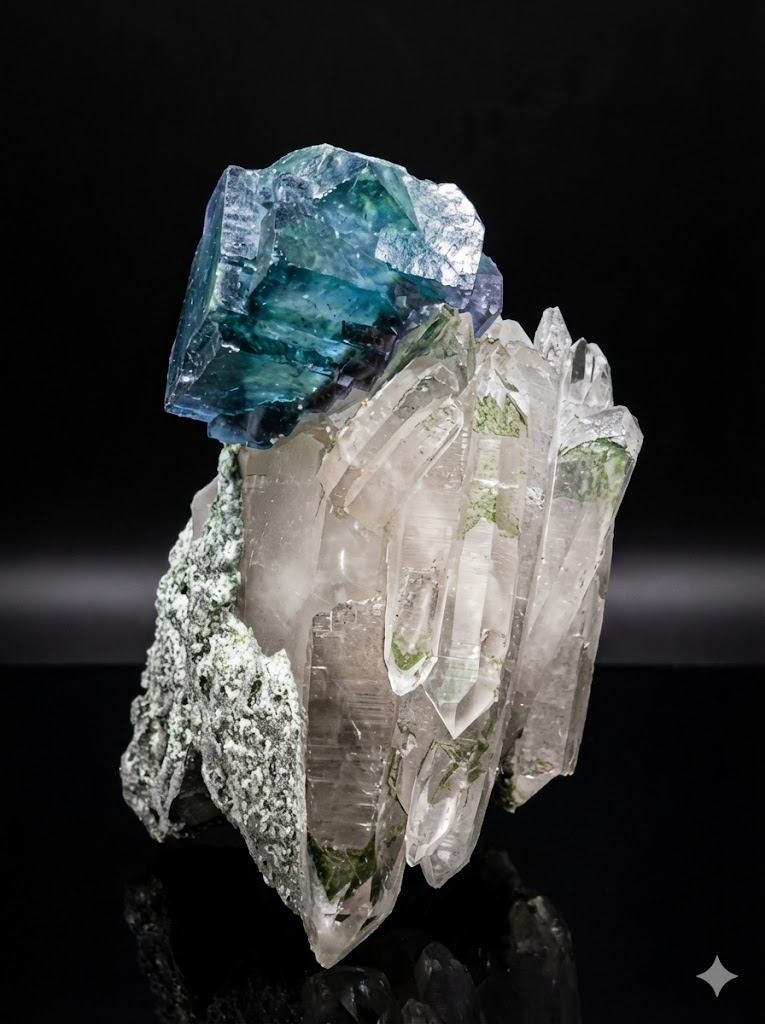
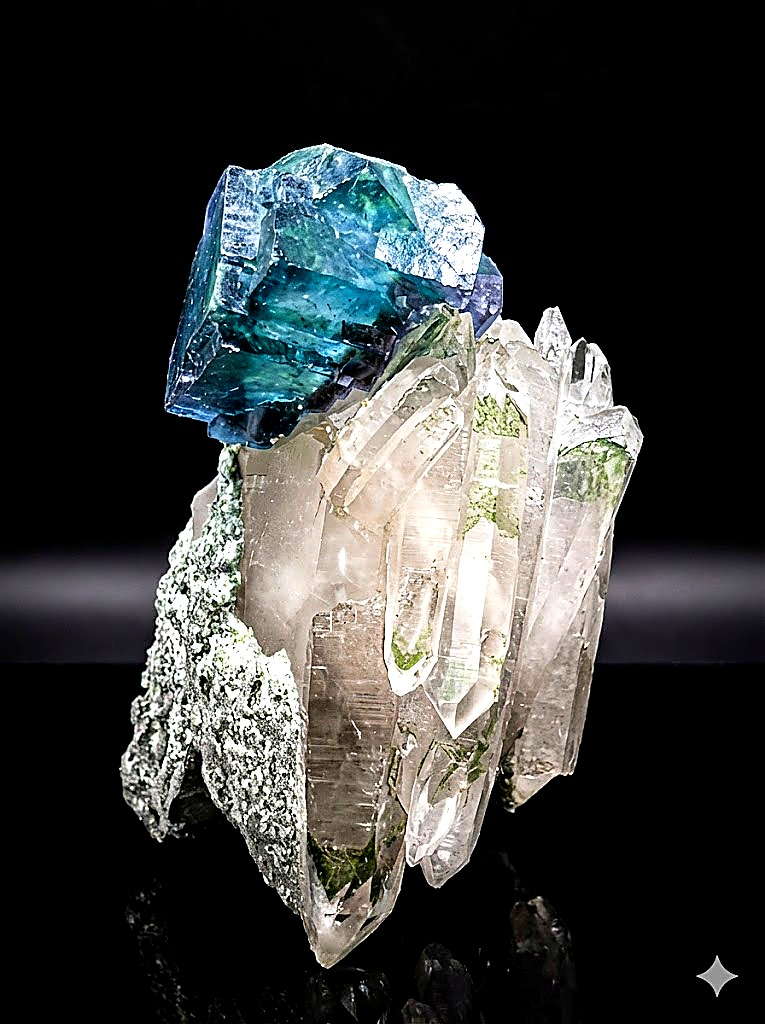
fix: upgrade store images to higher-quality specimens
- azur-001/002: swap 765x1024 root images for 1200x1500 specimens/azur-003/004
- mala-001: swap 765x1024 root image for 1200x1500 specimens/mala-002
- pink-fluorite + fluorite-quartz-chlorite: enhance contrast/saturation/sharpness

Changed region(s): [[0.1503, 0.125, 0.8418, 0.9688], [0.902, 0.9375, 0.9621, 0.9688], [0.6915, 0.875, 0.7216, 0.9062]]

diff --git a/src/data/specimens/azurite.ts b/src/data/specimens/azurite.ts
@@ -4,7 +4,7 @@ export const azuriteSpecimens: Specimen[] = [
   {
     id: "azur-001",
     name: "Azurite Crystal Cluster",
-    image: "/images/azurite-cluster.jpg",
+    image: "/images/specimens/azur-003.jpg",
     locality: "Tsumeb Mine, Otjikoto Region, Namibia",
     crystalSystem: "Monoclinic",
     dimensions: "8.5 × 4.2 × 3.8 cm",
@@ -20,7 +20,7 @@ export const azuriteSpecimens: Specimen[] = [
   {
     id: "azur-002",
     name: "Azurite Blueberry Nodules",
-    image: "/images/azurite-blueberry.jpg",
+    image: "/images/specimens/azur-004.jpg",
     locality: "Bisbee, Cochise County, Arizona, USA",
     crystalSystem: "Monoclinic",
     dimensions: "7.5 × 6.8 × 5.2 cm",

diff --git a/src/data/specimens/other.ts b/src/data/specimens/other.ts
@@ -23,7 +23,7 @@ export const malachiteSpecimens: Specimen[] = [
   {
     id: "mala-001",
     name: "Fibrous Malachite",
-    image: "/images/malachite-fibrous.jpg",
+    image: "/images/specimens/mala-002.jpg",
     locality: "Kolwezi District, Lualaba Province, DR Congo",
     crystalSystem: "Monoclinic",
     dimensions: "9.8 × 6.2 × 4.5 cm",
